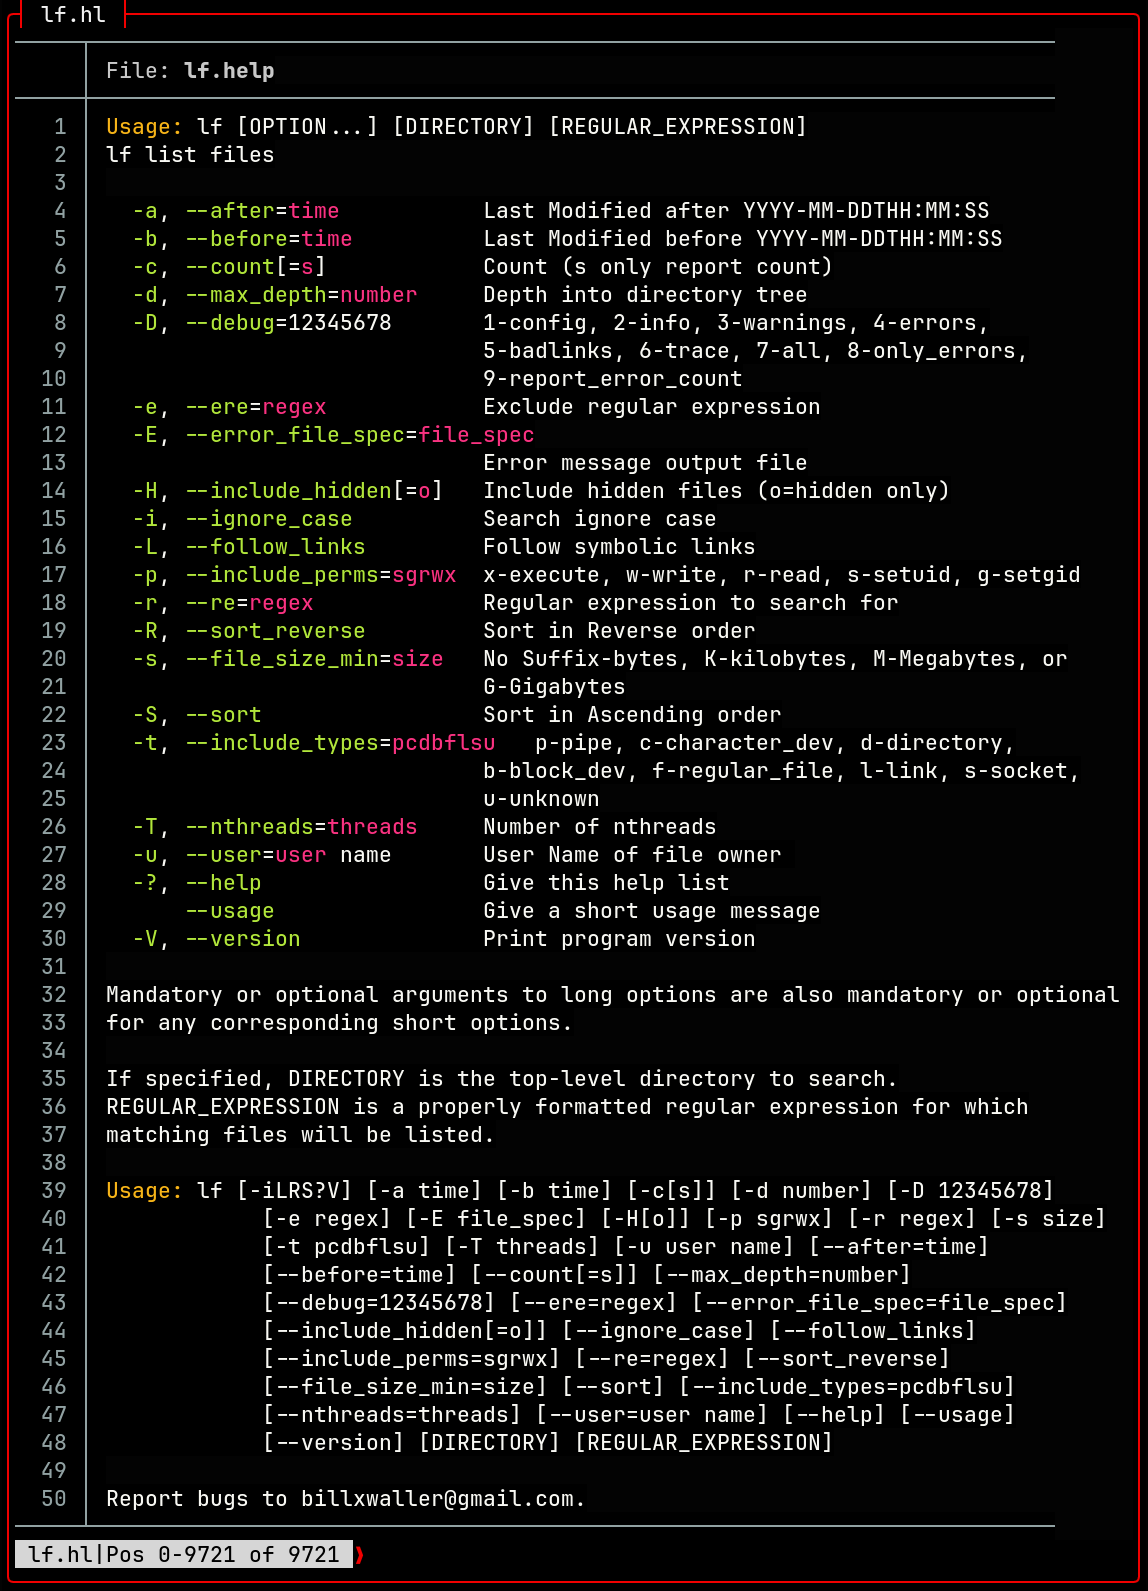
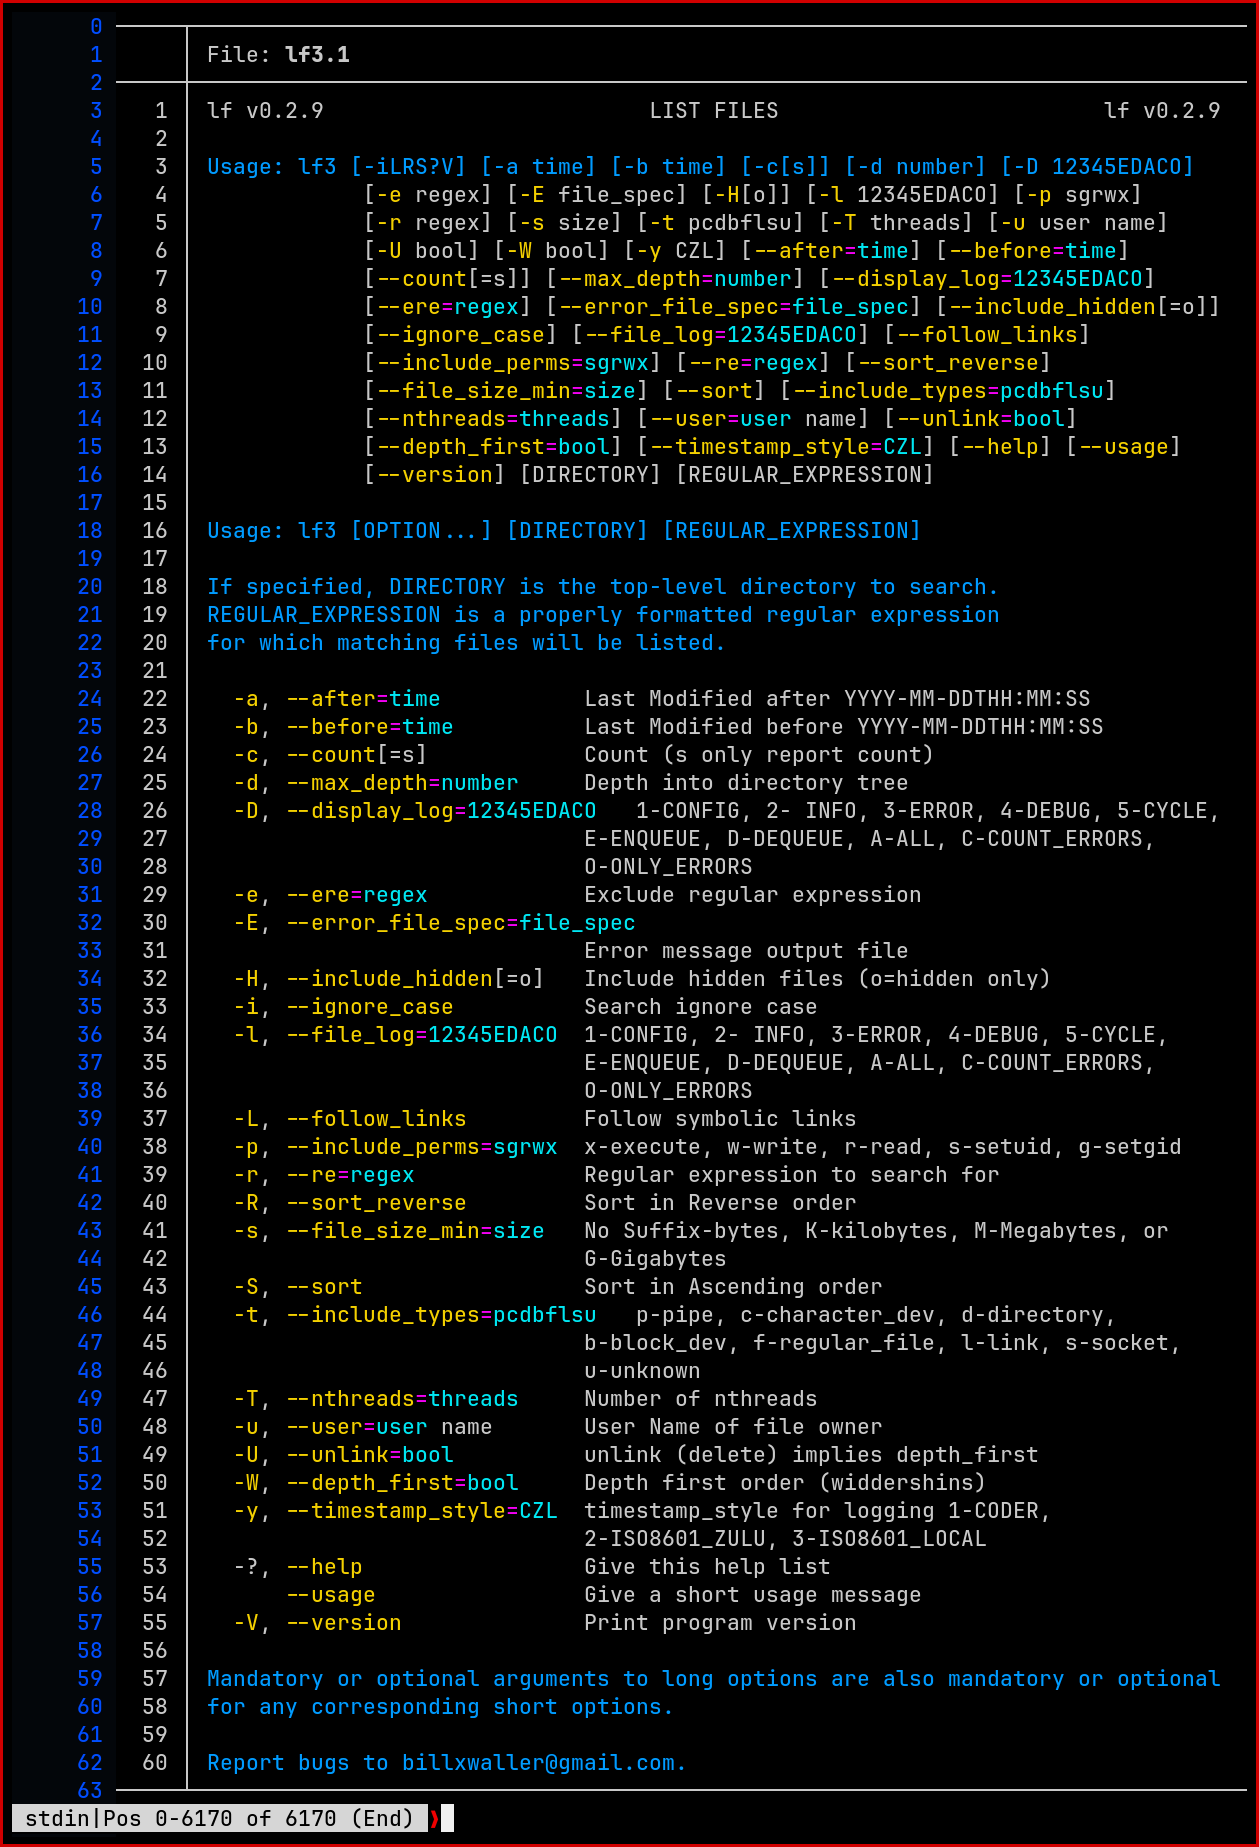
FIXES:

Changed region(s): [[0.0, 0.0, 1.0, 1.0], [0.7622, 0.5236, 0.9146, 0.5852], [0.8841, 0.8008, 0.9146, 0.8316]]

diff --git a/src/mem.c b/src/mem.c
@@ -69,7 +69,7 @@ Init *new_init(int argc, char **argv) {
         ssnprintf(em0, MAXLEN - 1, _("%s, line: %d, errno: %d"), __FILE__,
                   __LINE__ - 4, errno);
         ssnprintf(em1, MAXLEN - 1, _("%s"), strerror(errno));
-        ssnprintf(em2, MAXLEN - 1, "view->argv = calloc(%d, %d) failed\n",
+        ssnprintf(em2, MAXLEN - 1, "view->argv = calloc(%d, %lu) failed\n",
                   (MAXARGS + 1), sizeof(char *));
         ui_display_error(em0, em1, em2, nullptr);
         exit(EXIT_FAILURE);
@@ -191,7 +191,7 @@ Pick *new_pick(Init *init, int argc, char **argv, uint begy, uint begx) {
     if (pick->m_object == nullptr) {
         ssnprintf(em0, MAXLEN - 1, _("%s, line: %d"), __FILE__, __LINE__ - 1);
         ssnprintf(em1, MAXLEN - 1,
-                  "calloc pick->m_object = calloc(%d, %d) failed\n",
+                  "calloc pick->m_object = calloc(%d, %lu) failed\n",
                   OBJ_MAXCNT + 1, sizeof(char *));
         ui_display_error(em0, em1, nullptr, nullptr);
         ui_abend(-1, _("User terminated program"));
@@ -200,7 +200,7 @@ Pick *new_pick(Init *init, int argc, char **argv, uint begy, uint begx) {
     if (pick->d_object == nullptr) {
         ssnprintf(em0, MAXLEN - 1, _("%s, line: %d"), __FILE__, __LINE__ - 1);
         ssnprintf(em1, MAXLEN - 1,
-                  "calloc pick->d_object = calloc(%d, %d) failed\n",
+                  "calloc pick->d_object = calloc(%d, %lu) failed\n",
                   OBJ_MAXCNT + 1, sizeof(char *));
         ui_display_error(em0, em1, nullptr, nullptr);
         ui_abend(-1, _("User terminated program"));
@@ -296,7 +296,7 @@ View *new_view(Init *init) {
         ssnprintf(em0, MAXLEN - 1, _("%s, line: %d, errno: %d"), __FILE__,
                   __LINE__ - 1, errno);
         ssnprintf(em1, MAXLEN - 1, _("%s"), strerror(errno));
-        ssnprintf(em2, MAXLEN - 1, "init->view = calloc(%d) failed\n",
+        ssnprintf(em2, MAXLEN - 1, "init->view = calloc(%lu) failed\n",
                   sizeof(View));
         ui_display_error(em0, em1, em2, nullptr);
         ui_abend(-1, _("calloc init->view failed"));
@@ -311,7 +311,7 @@ View *new_view(Init *init) {
             ssnprintf(em0, MAXLEN - 1, _("%s, line: %d, errno: %d"), __FILE__,
                       __LINE__ - 1, errno);
             ssnprintf(em1, MAXLEN - 1, _("%s"), strerror(errno));
-            ssnprintf(em2, MAXLEN - 1, "view->argv = calloc(%d, %d) failed\n",
+            ssnprintf(em2, MAXLEN - 1, "view->argv = calloc(%d, %lu) failed\n",
                       view->argc, sizeof(char *));
             ui_display_error(em0, em1, em2, nullptr);
             ui_abend(-1, _("User terminated program"));
@@ -482,7 +482,7 @@ bool verify_spec_arg(char *spec, char *org_spec, char *dir, char *alt_dir,
     @details Positional args: [menu desc], [help file] */
 bool init_menu_files(Init *init, int argc, char **argv) {
     char tmp_str[MAXLEN];
-    int optind = 0;
+    optind = 0;
     if (optind < argc && !init->f_mapp_spec) {
         menu->f_mapp_spec =
             verify_spec_arg(menu->mapp_spec, argv[optind], init->mapp_msrc,
@@ -530,7 +530,7 @@ bool init_menu_files(Init *init, int argc, char **argv) {
     @details Positional args: [pick desc], [in_file], [out_file], [help_file] */
 bool init_pick_files(Init *init, int argc, char **argv) {
     char tmp_str[MAXLEN];
-    int optind = 1;
+    optind = 1;
     pick->f_in_spec = verify_spec_arg(pick->in_spec, init->in_spec,
                                       init->mapp_data, _("~/menuapp/data"), R_OK);
     pick->f_out_spec =
@@ -633,7 +633,7 @@ bool init_pick_files(Init *init, int argc, char **argv) {
     @details Positional args: [pick desc], [in_file], [out_file], [help_file] */
 bool init_form_files(Init *init, int argc, char **argv) {
     char tmp_str[MAXLEN];
-    int optind = 0;
+    optind = 0;
     form->f_mapp_spec =
         verify_spec_arg(form->mapp_spec, init->mapp_spec, init->mapp_msrc,
                         _("~/menuapp/msrc"), R_OK);

diff --git a/src/ui/ui_notcurses.c b/src/ui/ui_notcurses.c
@@ -221,7 +221,7 @@ UiRuntime *ui_init(const UiConfig *cfg, SIO *sio) {
  * metadata, and creates a new ncplane for rendering. If any step fails, it
  * cleans up and returns NULL.
  */
-UiSurface *ui_surface_new(ss_t w, UiSurface *parent, uint p, uint lines, uint cols, uint y, uint x) {
+UiSurface *ui_surface_new(ss_t w, UiSurface *parent, ss_t p, uint lines, uint cols, uint y, uint x) {
     if (!ui)
         return NULL;
     UiSurface *s = calloc(1, sizeof(*s));
@@ -276,7 +276,7 @@ UiSurface *ui_surface_new(ss_t w, UiSurface *parent, uint p, uint lines, uint co
  * title. It allocates memory for the surface, sets up its metadata, and creates
  * a new ncplane for rendering. If any step fails, it cleans up and returns NULL.
  */
-UiSurface *ui_surface_box(UiSurface *parent, uint p, uint lines, uint cols, uint y, uint x, const char *wtitle) {
+UiSurface *ui_surface_box(UiSurface *parent, ss_t p, uint lines, uint cols, uint y, uint x, const char *wtitle) {
     if (!ui)
         return NULL;
     UiSurface *s = calloc(1, sizeof(*s));
@@ -330,21 +330,25 @@ UiSurface *ui_surface_box(UiSurface *parent, uint p, uint lines, uint cols, uint
  * for the new padded surface and sets its background and scrolling properties.
  * If any step fails, it cleans up and returns -1.
  */
-int ui_surface_addpad(UiSurface *s, ss_t w, uint p, uint lines, uint cols, uint y, uint x) {
+int ui_surface_addpad(UiSurface *s, ss_t w, ss_t p, uint lines, uint cols, uint y, uint x) {
     uint plines, pcols;
     ncplane_dim_yx(s->mplane[p], &plines, &pcols);
-    pcols = min(pcols, cols);
-    plines = min(plines, lines);
+    plines = max(plines, lines);
+    pcols = max(pcols, cols);
     ncplane_options plane_opts = {
         .y = y,
         .x = x,
-        .rows = plines - y,
-        .cols = pcols - x,
-        .name = NULL};
+        .rows = lines,
+        .cols = cols,
+        // .margin_b = plines - y,
+        // .margin_r = cols - s->meta[p].cols - x,
+        .name = NULL,
+        // .flags = NCPLANE_OPTION_MARGINALIZED,
+    };
     s->meta[w].y = y;
     s->meta[w].x = x;
-    s->meta[w].lines = plines - y;
-    s->meta[w].cols = pcols - x;
+    s->meta[w].lines = lines - y;
+    s->meta[w].cols = cols - x;
     s->meta[w].hidden = false;
     s->mplane[w] = ncplane_create(s->mplane[p], &plane_opts);
     if (!s->mplane[w]) {
@@ -357,7 +361,8 @@ int ui_surface_addpad(UiSurface *s, ss_t w, uint p, uint lines, uint cols, uint 
     ncplane_set_channels(s->mplane[w], cell_nt.channels);
     ui_bkgd(s, w, &cell_nt);
     ui_bkgdset(s, w, &cell_nt);
-    ui_scrollok(s, w, true);
+    ui_render();
+    // ui_scrollok(s, w, false);
     return 0;
 }
 /** @brief Add a new window to an existing UI surface.
@@ -375,7 +380,7 @@ int ui_surface_addpad(UiSurface *s, ss_t w, uint p, uint lines, uint cols, uint 
  * for the new window and sets its background properties. If any step fails, it
  * cleans up and returns -1.
  */
-int ui_surface_addwin(UiSurface *s, ss_t w, uint p, uint lines, uint cols, uint y, uint x) {
+int ui_surface_addwin(UiSurface *s, ss_t w, ss_t p, uint lines, uint cols, uint y, uint x) {
     ncplane_options plane_opts = {
         .y = y,
         .x = x,
@@ -479,7 +484,7 @@ void ui_shutdown() {
 void ui_surface_destroy(UiSurface *s) {
     if (!s)
         return;
-    ss_t w = SUB_SFC_MAX;
+    ss_t w = SUB_SFC_MAX - 1;
     while (1) {
         if (s->mplane[w] != NULL) {
             ui_log(INFO, _("Destroying mplane[%d]"), w);

diff --git a/src/ui/ui_ncurses.c b/src/ui/ui_ncurses.c
@@ -226,7 +226,7 @@ struct UiRuntime *ui_init(const UiConfig *cfg, SIO *sio) {
  * @param x The x-coordinate (column) for the new surface's position.
  * @return A pointer to the newly created UiSurface, or NULL on failure.
  */
-UiSurface *ui_surface_new(ss_t w, UiSurface *parent, uint p, uint lines, uint cols, uint y, uint x) {
+UiSurface *ui_surface_new(ss_t w, UiSurface *parent, ss_t p, uint lines, uint cols, uint y, uint x) {
     if (!ui)
         return NULL;
     uint maxy, maxx;
@@ -285,7 +285,7 @@ UiSurface *ui_surface_new(ss_t w, UiSurface *parent, uint p, uint lines, uint co
  * @param wtitle The title string to display in the border box, or NULL for no title.
  * @return A pointer to the newly created UiSurface with a border box, or NULL on failure.
  */
-UiSurface *ui_surface_box(UiSurface *parent, uint p, uint lines, uint cols, uint y, uint x, const char *wtitle) {
+UiSurface *ui_surface_box(UiSurface *parent, ss_t p, uint lines, uint cols, uint y, uint x, const char *wtitle) {
     if (!ui)
         return NULL;
     uint maxy, maxx;
@@ -366,7 +366,7 @@ void fast_exit(UiSurface *s) {
  * @param begx The x-coordinate (column) for the new pad's position (ignored in this implementation).
  * @return 0 on success, or -1 on failure.
  */
-int ui_surface_addpad(UiSurface *s, ss_t w, uint view_win, uint lines, uint cols, uint begy, uint begx) {
+int ui_surface_addpad(UiSurface *s, ss_t w, ss_t view_win, uint lines, uint cols, uint begy, uint begx) {
     (void)begy;
     (void)begx;
     s->mwin[w] = newpad(lines, cols);
@@ -377,6 +377,7 @@ int ui_surface_addpad(UiSurface *s, ss_t w, uint view_win, uint lines, uint cols
         return -1;
     s->mpan[w] = new_panel(s->mwin[view_win]);
     immedok(s->mwin[w], true);
+    scrollok(s->mwin[w], true);
 #ifdef DEBUG_UI
 #endif
     return 0;
@@ -392,7 +393,7 @@ int ui_surface_addpad(UiSurface *s, ss_t w, uint view_win, uint lines, uint cols
  * @param x The x-coordinate (column) for the new window's position relative to the parent window.
  * @return 0 on success, or -1 on failure.
  */
-int ui_surface_addwin(UiSurface *s, ss_t w, uint p, uint lines, uint cols, uint y, uint x) {
+int ui_surface_addwin(UiSurface *s, ss_t w, ss_t p, uint lines, uint cols, uint y, uint x) {
     s->mwin[w] = derwin(s->mwin[p], lines, cols, y, x);
     if (!s->mwin[w]) {
         free(s);
@@ -400,8 +401,8 @@ int ui_surface_addwin(UiSurface *s, ss_t w, uint p, uint lines, uint cols, uint 
     }
     s->mpan[w] = new_panel(s->mwin[w]);
     keypad(s->mwin[w], true);
-    ui_bkgd(s, w, &cell_nt);
-    ui_bkgdset(s, w, &cell_nt);
+    // ui_bkgd(s, w, &cell_nt);
+    // ui_bkgdset(s, w, &cell_nt);
     immedok(s->mwin[w], true);
 #ifdef DEBUG_UI
 #endif

diff --git a/src/include/ui_backend.h b/src/include/ui_backend.h
@@ -64,6 +64,7 @@ extern char em3[MAXLEN]; /**< error message string for error messages */
     X(LNNO)                 \
     X(CMDLN)                \
     X(PAD)                  \
+    X(VIEWPORT)             \
     X(WIN3)
 #define AS_ENUM(NAME) NAME,
 typedef enum {
@@ -267,7 +268,7 @@ struct UiSurface {
             PANEL *lnno_pan;
             PANEL *cmdln_pan;
             PANEL *pad_pan;
-            PANEL *plane1_pan;
+            PANEL *viewport_pan;
             PANEL *plane2_pan;
         }; // END DEPRECATION
         struct {
@@ -282,7 +283,7 @@ struct UiSurface {
             WINDOW *lnno;
             WINDOW *cmdln;
             WINDOW *pad;
-            WINDOW *plane1;
+            WINDOW *viewport;
             WINDOW *plane2;
         }; // END DEPRECATION
         struct {
@@ -366,7 +367,7 @@ struct UiSurface {
             struct ncplane *lnno;
             struct ncplane *cmdln;
             struct ncplane *pad;
-            struct ncplane *plane1;
+            struct ncplane *viewport;
             struct ncplane *plane2;
         }; // END DEPRECATION
         struct {
@@ -824,12 +825,12 @@ void ui_get_caps(UiCaps *caps);
 UiBackend ui_get_backend();
 void ui_initialize_sio(SIO *sio);
 UiRuntime *ui_init(const UiConfig *config, SIO *sio);
-UiSurface *ui_surface_new(ss_t w, UiSurface *parent, uint p, uint lines, uint cols, uint y, uint x);
-UiSurface *ui_surface_box(UiSurface *parent, uint p, uint lines, uint cols, uint y, uint x, const char *title);
+UiSurface *ui_surface_new(ss_t w, UiSurface *parent, ss_t p, uint lines, uint cols, uint y, uint x);
+UiSurface *ui_surface_box(UiSurface *parent, ss_t p, uint lines, uint cols, uint y, uint x, const char *title);
 int ui_tracked_sfc_box(uint wlines, uint wcols, uint wbegy, uint wbegx, const char *wtitle);
 int ui_tracked_sfc_split_box(uint wlines, uint wcols, uint split_y, uint split_x, uint wbegy, uint wbegx, const char *wtitle);
-int ui_surface_addwin(UiSurface *s, ss_t w, uint p, uint lines, uint cols, uint y, uint x);
-int ui_surface_addpad(UiSurface *s, ss_t w, uint view_win, uint lines, uint cols, uint begy, uint begx);
+int ui_surface_addwin(UiSurface *s, ss_t w, ss_t p, uint lines, uint cols, uint y, uint x);
+int ui_surface_addpad(UiSurface *s, ss_t w, ss_t view_win, uint lines, uint cols, uint begy, uint begx);
 void ui_surface_destroy(UiSurface *s);
 int ui_cm_surface_destroy(UiSurface *sfc);
 int ui_border_draw(UiSurface *sfc);

diff --git a/src/init_view.c b/src/init_view.c
@@ -47,9 +47,9 @@ ViewStack view_stack;
 int init_view_full_screen(Init *init) {
     View *view = init->view;
     view->f_full_screen = true;
-    // -------------------> 1. WIN <-------------------
     view_calc_full_screen_dimensions(init);
     ui_log(INFO, _("lines=%d, cols=%d"), view->lines, view->cols);
+    // -------------------> 1. WIN <-------------------
     view->sfc = ui_surface_new(WIN, NULL, 0, view->lines, view->cols, 0, 0);
     if (!view->sfc) {
         ssnprintf(em0, MAXLEN - 1, _("newwin(LINES, COLS, 0, 0) failed in init_view_full_screen"));
@@ -57,7 +57,7 @@ int init_view_full_screen(Init *init) {
         exit(EXIT_FAILURE);
         return -1;
     }
-    ui_log(INFO, _("created view->sfc"));
+    ui_log(INFO, _("created view->sfc->win"));
     ui_bkgd(view->sfc, WIN, &cell_nt);
     // -------------------> 2. LNNO <-------------------
     if (view->f_ln) {
@@ -86,17 +86,24 @@ int init_view_full_screen(Init *init) {
     ui_idlok(view->sfc, CMDLN, false);
     ui_idcok(view->sfc, CMDLN, false);
     ui_scrollok(view->sfc, CMDLN, false);
-    // -------------------> 4. PAD <-------------------
-
-    ui_surface_addpad(view->sfc, PAD, WIN, view->lines - 1, PAD_COLS - 1, 0, view->ln_win_cols);
-    ui_log(INFO, _("created view->sfc->mplane[PAD]"));
+    // -------------------> 4. VIEWPORT <-------------------
+    ui_surface_addwin(view->sfc, VIEWPORT, WIN, view->lines, view->cols - view->ln_win_cols, 0, view->ln_win_cols);
+    if (!view->sfc->viewport) {
+        ssnprintf(em0, MAXLEN - 1, _("newwin(LINES, COLS, 0, 0) failed in init_view_full_screen"));
+        ui_log(INFO, "%s", em0);
+        exit(EXIT_FAILURE);
+        return -1;
+    }
+    ui_log(INFO, _("created view->sfc->viewport"));
+    // -------------------> 5. PAD <-------------------
+    ui_surface_addpad(view->sfc, PAD, VIEWPORT, view->lines - 1, PAD_COLS - 1, 0, 0);
     if (view->sfc->pad == nullptr) {
         ssnprintf(em0, MAXLEN - 1, _("ui_sfc_addpan(PAD, 1, COLS, LINES - 1, 0) failed in init_view_full_screen"));
         ui_log(INFO, "%s", em0);
         exit(EXIT_FAILURE);
     }
+    ui_log(INFO, _("created view->sfc->mplane[PAD]"));
     ui_scrollok(view->sfc, PAD, true);
-
     // ------------------------------------------------
     return 0;
 }

diff --git a/src/ui/ui_common.c b/src/ui/ui_common.c
@@ -1299,7 +1299,7 @@ int ui_perror(char *emsg_str) {
     line = (maxy - 4) / 2;
     strnz__cpy(title, _("Notification"), MAXLEN - 1);
     if (ui_tracked_sfc_box(2, cols, line, pos, title)) {
-        ssnprintf(tmp_str, MAXLEN - 1, _("ui_tracked_sfc_box(%d, %d, %d, %d, %s, %b) failed"),
+        ssnprintf(tmp_str, MAXLEN - 1, _("ui_tracked_sfc_box(%d, %d, %d, %d, %s) failed"),
                   4, line, line, pos, title);
         ui_log(ERROR, "%s", tmp_str);
         exit(EXIT_FAILURE);

diff --git a/src/view_engine.c b/src/view_engine.c
@@ -2087,6 +2087,7 @@ int pad_refresh(View *view) {
     }
 #else
     (void)view;
+    ncplane_move_yx(view->sfc->mplane[PAD], view->sminrow, -view->pmincol);
 #endif
     ui_render();
     return 0;

diff --git a/README.md b/README.md
@@ -33,6 +33,9 @@ To say that lf is fast is understated. It is easily ten times faster than find, 
 
 ![lf help Screenshot](screenshots/lf.help.png)
 
+![lf3 logging](screenshots/lf_log.png)
+
+
 Report bugs to billxwaller@gmail.com.
 
 ## find, lf, and fd Performance Comparison
